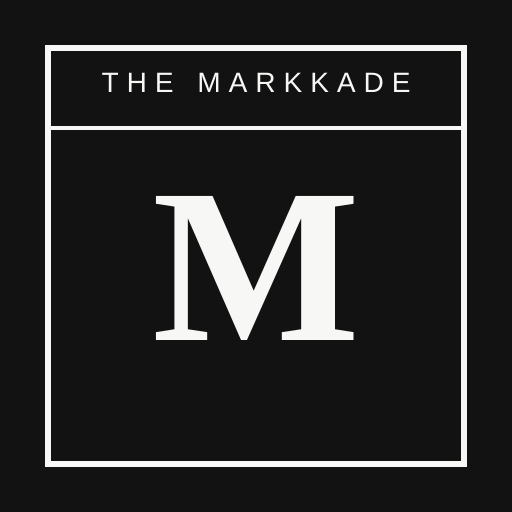
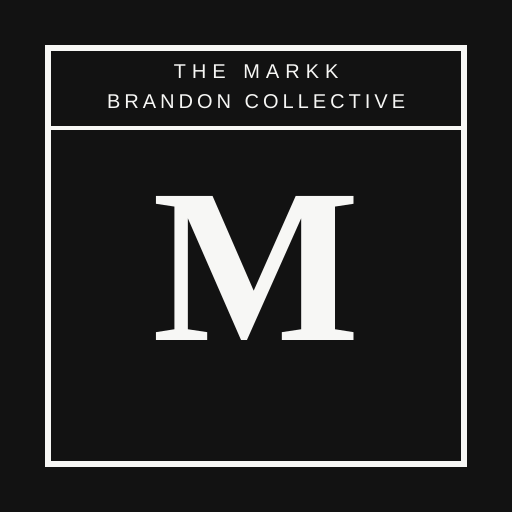
Rebrand site from The Markkade to The Markk Brandon Collective
Replace all user-facing branding, PWA manifest, service worker cache,
puzzle data, and app icons. Masthead uses a two-line title; PWA short
name is MBC for home-screen labels.

Changed region(s): [[0.1875, 0.125, 0.8125, 0.2188]]

diff --git a/news.html b/news.html
@@ -3,16 +3,16 @@
 <head>
 <meta charset="UTF-8">
 <meta name="viewport" content="width=device-width, initial-scale=1.0">
-<meta name="description" content="The Markkade Newsroom — launches, timelines, and development updates from Markk Brandon.">
+<meta name="description" content="The Markk Brandon Collective Newsroom — launches, timelines, and development updates from Markk Brandon.">
 <meta name="theme-color" content="#121212">
 <link rel="manifest" href="/manifest.webmanifest">
 <link rel="icon" href="/icons/favicon-32.png" sizes="32x32" type="image/png">
 <link rel="apple-touch-icon" href="/icons/apple-touch-icon.png">
 <meta name="apple-mobile-web-app-capable" content="yes">
 <meta name="apple-mobile-web-app-status-bar-style" content="black-translucent">
-<meta name="apple-mobile-web-app-title" content="The Markkade">
+<meta name="apple-mobile-web-app-title" content="MBC">
 <meta name="mobile-web-app-capable" content="yes">
-<title>Newsroom — The Markkade</title>
+<title>Newsroom — The Markk Brandon Collective</title>
 <link rel="stylesheet" href="css/style.css">
 </head>
 <body>
@@ -20,7 +20,7 @@
 
 <nav class="site-nav">
   <div class="site-nav-inner">
-    <a class="logo" href="index.html">The Markkade</a>
+    <a class="logo" href="index.html">The Markk Brandon Collective</a>
     <ul class="nav-links">
       <li><a href="index.html">Front Page</a></li>
       <li><a href="news.html" class="active">Newsroom</a></li>
@@ -49,7 +49,7 @@
 
 <section class="section">
   <div class="prose" style="max-width:720px;margin:0 auto 2.5rem">
-    <p class="drop-cap">The Markkade isn't just a portfolio — it's a living newspaper. Every website launch, business venture, software release, and experiment gets documented here as it happens. This is the behind-the-scenes story of everything I build.</p>
+    <p class="drop-cap">The Markk Brandon Collective isn't just a portfolio — it's a living newspaper. Every website launch, business venture, software release, and experiment gets documented here as it happens. This is the behind-the-scenes story of everything I build.</p>
   </div>
 </section>
 
@@ -60,10 +60,10 @@
   </div>
 
   <article class="news-article">
-    <p class="dateline">July 13, 2026 · The Markkade</p>
-    <h3>The Markkade Launches as Central Hub</h3>
+    <p class="dateline">July 13, 2026 · The Markk Brandon Collective</p>
+    <h3>The Markk Brandon Collective Launches as Central Hub</h3>
     <div class="prose">
-      <p>After building across security, social, community, and lifestyle platforms, The Markkade opens as the official newspaper for every project — a cover page, newsroom, and classifieds section for the full portfolio of work by Markeith Nicholas White.</p>
+      <p>After building across security, social, community, and lifestyle platforms, The Markk Brandon Collective opens as the official newspaper for every project — a cover page, newsroom, and classifieds section for the full portfolio of work by Markeith Nicholas White.</p>
     </div>
   </article>
 
@@ -95,7 +95,7 @@
     <p class="dateline">2024 · New Beginnings</p>
     <h3>Web Projects and Platform Experiments Begin</h3>
     <div class="prose">
-      <p>A new wave of web applications, security tools, and community platforms starts taking shape — laying the foundation for the multi-platform portfolio documented today in The Markkade.</p>
+      <p>A new wave of web applications, security tools, and community platforms starts taking shape — laying the foundation for the multi-platform portfolio documented today in The Markk Brandon Collective.</p>
     </div>
   </article>
 </section>
@@ -108,7 +108,7 @@
   <ul class="timeline">
     <li><div class="year">2024</div>Beginning new web projects and platform experiments.</li>
     <li><div class="year">2025</div>Expanding into multiple platforms — social apps, security operations, and AI-powered experiences.</li>
-    <li><div class="year">2026</div>Launching The Markkade as the central hub for every project.</li>
+    <li><div class="year">2026</div>Launching The Markk Brandon Collective as the central hub for every project.</li>
     <li><div class="year">Future</div>Whatever gets built next becomes tomorrow's headline.</li>
   </ul>
 </section>

diff --git a/index.html b/index.html
@@ -3,16 +3,16 @@
 <head>
 <meta charset="UTF-8">
 <meta name="viewport" content="width=device-width, initial-scale=1.0">
-<meta name="description" content="The Markkade — the official newspaper of Markeith Nicholas White. Everything Markk Brandon builds, documented.">
+<meta name="description" content="The Markk Brandon Collective — the official newspaper of Markeith Nicholas White. Everything Markk Brandon builds, documented.">
 <meta name="theme-color" content="#121212">
 <link rel="manifest" href="/manifest.webmanifest">
 <link rel="icon" href="/icons/favicon-32.png" sizes="32x32" type="image/png">
 <link rel="apple-touch-icon" href="/icons/apple-touch-icon.png">
 <meta name="apple-mobile-web-app-capable" content="yes">
 <meta name="apple-mobile-web-app-status-bar-style" content="black-translucent">
-<meta name="apple-mobile-web-app-title" content="The Markkade">
+<meta name="apple-mobile-web-app-title" content="MBC">
 <meta name="mobile-web-app-capable" content="yes">
-<title>The Markkade — Front Page</title>
+<title>The Markk Brandon Collective — Front Page</title>
 <link rel="stylesheet" href="css/style.css">
 </head>
 <body>
@@ -22,7 +22,7 @@
 
 <nav class="site-nav">
   <div class="site-nav-inner">
-    <a class="logo" href="index.html">The Markkade</a>
+    <a class="logo" href="index.html">The Markk Brandon Collective</a>
     <ul class="nav-links">
       <li><a href="index.html" class="active">Front Page</a></li>
       <li><a href="news.html">Newsroom</a></li>
@@ -40,7 +40,7 @@
     <span class="edition-center">Sacramento, Calif.</span>
     <span>Monday, July 13, 2026</span>
   </div>
-  <h1>The Markkade</h1>
+  <h1>The Markk Brandon<br>Collective</h1>
   <p class="masthead-tagline">All the projects fit to ship</p>
   <p class="masthead-rule"><strong>Markeith Nicholas White</strong> · Markk Brandon · StickzCoder.Lua</p>
   <div class="masthead-bottom-rule"></div>
@@ -57,7 +57,7 @@
     <p class="name">Markeith Nicholas White</p>
     <p class="aliases">Markk Brandon · StickzCoder.Lua</p>
     <div class="prose">
-      <p class="drop-cap">Welcome to The Markkade — my personal newspaper and the official archive of everything I build. From security marketplaces and social platforms to community apps and AI-powered experiences, this is where my work lives, launches, and gets documented like front-page news.</p>
+      <p class="drop-cap">Welcome to The Markk Brandon Collective — my personal newspaper and the official archive of everything I build. From security marketplaces and social platforms to community apps and AI-powered experiences, this is where my work lives, launches, and gets documented like front-page news.</p>
       <p>I build software that helps people. I create useful websites. I experiment with new technologies — React, Next.js, Supabase, Gemini AI, Lua, and whatever solves the problem in front of me. I never stop building, and every project that ships becomes tomorrow's headline.</p>
       <p>Based in Sacramento, California, I run businesses, ship apps, and document the journey right here. Browse <a href="apps/">The Classifieds</a> for every website and app I've built, explore <a href="servers/">Game Servers</a> for communities I've hosted, or visit the <a href="news.html">Newsroom</a> for launches and timelines.</p>
     </div>
@@ -128,9 +128,9 @@
 
       <article class="story-card">
         <p class="kicker">Newsroom</p>
-        <h3><a href="news.html">The Markkade Opens as Central Hub for Every Project</a></h3>
+        <h3><a href="news.html">The Markk Brandon Collective Opens as Central Hub for Every Project</a></h3>
         <p class="deck">2026 — A new chapter begins</p>
-        <p>After years of building across security, social, community, and lifestyle platforms, The Markkade launches as the official newspaper documenting every venture, release, and experiment.</p>
+        <p>After years of building across security, social, community, and lifestyle platforms, The Markk Brandon Collective launches as the official newspaper documenting every venture, release, and experiment.</p>
         <a class="read-more" href="news.html">Visit the Newsroom →</a>
       </article>
     </div>

diff --git a/features/wordsearch.html b/features/wordsearch.html
@@ -3,14 +3,14 @@
 <head>
 <meta charset="UTF-8">
 <meta name="viewport" content="width=device-width, initial-scale=1.0">
-<meta name="description" content="The Markkade word search — same clues as the crossword puzzle edition.">
+<meta name="description" content="The Markk Brandon Collective word search — same clues as the crossword puzzle edition.">
 <meta name="theme-color" content="#121212">
 <link rel="manifest" href="/manifest.webmanifest">
 <link rel="icon" href="/icons/favicon-32.png" sizes="32x32" type="image/png">
 <link rel="apple-touch-icon" href="/icons/apple-touch-icon.png">
 <meta name="apple-mobile-web-app-capable" content="yes">
 <meta name="apple-mobile-web-app-status-bar-style" content="black-translucent">
-<meta name="apple-mobile-web-app-title" content="The Markkade">
+<meta name="apple-mobile-web-app-title" content="MBC">
 <meta name="mobile-web-app-capable" content="yes">
 <title>Word Search — The Features Desk</title>
 <link rel="stylesheet" href="../css/style.css">
@@ -20,7 +20,7 @@
 
 <nav class="site-nav">
   <div class="site-nav-inner">
-    <a class="logo" href="../index.html">The Markkade</a>
+    <a class="logo" href="../index.html">The Markk Brandon Collective</a>
     <ul class="nav-links">
       <li><a href="../index.html">Front Page</a></li>
       <li><a href="../news.html">Newsroom</a></li>
@@ -37,7 +37,7 @@
 
 <div class="section-head">
   <p class="kicker">Puzzle Edition I</p>
-  <h2>The Markkade Word Search</h2>
+  <h2>Markk Brandon Collective Word Search</h2>
   <p>Find every word from the <a href="crossword.html">crossword</a> — tap the first and last letter of each answer.</p>
 </div>
 
@@ -57,7 +57,7 @@
 </div>
 
 <div class="cover-cta" style="margin-top:2rem">
-  <p>Includes favorites: <span class="features-accent">Green</span>, burger, tea, Mustang — plus Markkade extras.</p>
+  <p>Includes favorites: <span class="features-accent">Green</span>, burger, tea, Mustang — plus Collective extras.</p>
   <div class="btn-row">
     <a class="btn btn-primary" href="crossword.html">Crossword</a>
     <a class="btn" href="./">Features Desk</a>

diff --git a/features/crossword.html b/features/crossword.html
@@ -3,14 +3,14 @@
 <head>
 <meta charset="UTF-8">
 <meta name="viewport" content="width=device-width, initial-scale=1.0">
-<meta name="description" content="The Markkade crossword — favorite color, food, drink, car, and more.">
+<meta name="description" content="The Markk Brandon Collective crossword — favorite color, food, drink, car, and more.">
 <meta name="theme-color" content="#121212">
 <link rel="manifest" href="/manifest.webmanifest">
 <link rel="icon" href="/icons/favicon-32.png" sizes="32x32" type="image/png">
 <link rel="apple-touch-icon" href="/icons/apple-touch-icon.png">
 <meta name="apple-mobile-web-app-capable" content="yes">
 <meta name="apple-mobile-web-app-status-bar-style" content="black-translucent">
-<meta name="apple-mobile-web-app-title" content="The Markkade">
+<meta name="apple-mobile-web-app-title" content="MBC">
 <meta name="mobile-web-app-capable" content="yes">
 <title>Crossword — The Features Desk</title>
 <link rel="stylesheet" href="../css/style.css">
@@ -20,7 +20,7 @@
 
 <nav class="site-nav">
   <div class="site-nav-inner">
-    <a class="logo" href="../index.html">The Markkade</a>
+    <a class="logo" href="../index.html">The Markk Brandon Collective</a>
     <ul class="nav-links">
       <li><a href="../index.html">Front Page</a></li>
       <li><a href="../news.html">Newsroom</a></li>
@@ -37,7 +37,7 @@
 
 <div class="section-head">
   <p class="kicker">Puzzle Edition I</p>
-  <h2>The Markkade Crossword</h2>
+  <h2>Markk Brandon Collective Crossword</h2>
   <p>Same clues as the <a href="wordsearch.html">word search</a> — personal favorites edition.</p>
 </div>
 

diff --git a/features/photography.html b/features/photography.html
@@ -3,14 +3,14 @@
 <head>
 <meta charset="UTF-8">
 <meta name="viewport" content="width=device-width, initial-scale=1.0">
-<meta name="description" content="Photography gallery by Markk Brandon — The Features Desk at The Markkade.">
+<meta name="description" content="Photography gallery by Markk Brandon — The Features Desk at The Markk Brandon Collective.">
 <meta name="theme-color" content="#121212">
 <link rel="manifest" href="/manifest.webmanifest">
 <link rel="icon" href="/icons/favicon-32.png" sizes="32x32" type="image/png">
 <link rel="apple-touch-icon" href="/icons/apple-touch-icon.png">
 <meta name="apple-mobile-web-app-capable" content="yes">
 <meta name="apple-mobile-web-app-status-bar-style" content="black-translucent">
-<meta name="apple-mobile-web-app-title" content="The Markkade">
+<meta name="apple-mobile-web-app-title" content="MBC">
 <meta name="mobile-web-app-capable" content="yes">
 <title>Photography — The Features Desk</title>
 <link rel="stylesheet" href="../css/style.css">
@@ -20,7 +20,7 @@
 
 <nav class="site-nav">
   <div class="site-nav-inner">
-    <a class="logo" href="../index.html">The Markkade</a>
+    <a class="logo" href="../index.html">The Markk Brandon Collective</a>
     <ul class="nav-links">
       <li><a href="../index.html">Front Page</a></li>
       <li><a href="../news.html">Newsroom</a></li>

diff --git a/features/index.html b/features/index.html
@@ -10,9 +10,9 @@
 <link rel="apple-touch-icon" href="/icons/apple-touch-icon.png">
 <meta name="apple-mobile-web-app-capable" content="yes">
 <meta name="apple-mobile-web-app-status-bar-style" content="black-translucent">
-<meta name="apple-mobile-web-app-title" content="The Markkade">
+<meta name="apple-mobile-web-app-title" content="MBC">
 <meta name="mobile-web-app-capable" content="yes">
-<title>The Features Desk — The Markkade</title>
+<title>The Features Desk — The Markk Brandon Collective</title>
 <link rel="stylesheet" href="../css/style.css">
 </head>
 <body>
@@ -20,7 +20,7 @@
 
 <nav class="site-nav">
   <div class="site-nav-inner">
-    <a class="logo" href="../index.html">The Markkade</a>
+    <a class="logo" href="../index.html">The Markk Brandon Collective</a>
     <ul class="nav-links">
       <li><a href="../index.html">Front Page</a></li>
       <li><a href="../news.html">Newsroom</a></li>

diff --git a/apps/index.html b/apps/index.html
@@ -10,9 +10,9 @@
 <link rel="apple-touch-icon" href="/icons/apple-touch-icon.png">
 <meta name="apple-mobile-web-app-capable" content="yes">
 <meta name="apple-mobile-web-app-status-bar-style" content="black-translucent">
-<meta name="apple-mobile-web-app-title" content="The Markkade">
+<meta name="apple-mobile-web-app-title" content="MBC">
 <meta name="mobile-web-app-capable" content="yes">
-<title>The Classifieds — The Markkade</title>
+<title>The Classifieds — The Markk Brandon Collective</title>
 <link rel="stylesheet" href="../css/style.css">
 </head>
 <body>
@@ -20,7 +20,7 @@
 
 <nav class="site-nav">
   <div class="site-nav-inner">
-    <a class="logo" href="../index.html">The Markkade</a>
+    <a class="logo" href="../index.html">The Markk Brandon Collective</a>
     <ul class="nav-links">
       <li><a href="../index.html">Front Page</a></li>
       <li><a href="../news.html">Newsroom</a></li>

diff --git a/servers/index.html b/servers/index.html
@@ -10,9 +10,9 @@
 <link rel="apple-touch-icon" href="/icons/apple-touch-icon.png">
 <meta name="apple-mobile-web-app-capable" content="yes">
 <meta name="apple-mobile-web-app-status-bar-style" content="black-translucent">
-<meta name="apple-mobile-web-app-title" content="The Markkade">
+<meta name="apple-mobile-web-app-title" content="MBC">
 <meta name="mobile-web-app-capable" content="yes">
-<title>Game Servers — The Markkade</title>
+<title>Game Servers — The Markk Brandon Collective</title>
 <link rel="stylesheet" href="../css/style.css">
 </head>
 <body>
@@ -20,7 +20,7 @@
 
 <nav class="site-nav">
   <div class="site-nav-inner">
-    <a class="logo" href="../index.html">The Markkade</a>
+    <a class="logo" href="../index.html">The Markk Brandon Collective</a>
     <ul class="nav-links">
       <li><a href="../index.html">Front Page</a></li>
       <li><a href="../news.html">Newsroom</a></li>

diff --git a/apps/signature-security.html b/apps/signature-security.html
@@ -10,7 +10,7 @@
 <link rel="apple-touch-icon" href="/icons/apple-touch-icon.png">
 <meta name="apple-mobile-web-app-capable" content="yes">
 <meta name="apple-mobile-web-app-status-bar-style" content="black-translucent">
-<meta name="apple-mobile-web-app-title" content="The Markkade">
+<meta name="apple-mobile-web-app-title" content="MBC">
 <meta name="mobile-web-app-capable" content="yes">
 <title>Signature Security Specialist — The Classifieds</title>
 <link rel="stylesheet" href="../css/style.css">
@@ -19,7 +19,7 @@
 <div class="site">
 <nav class="site-nav">
   <div class="site-nav-inner">
-    <a class="logo" href="../index.html">The Markkade</a>
+    <a class="logo" href="../index.html">The Markk Brandon Collective</a>
     <ul class="nav-links">
       <li><a href="../index.html">Front Page</a></li>
       <li><a href="../news.html">Newsroom</a></li>

diff --git a/apps/sacramento-buy-nothing.html b/apps/sacramento-buy-nothing.html
@@ -10,7 +10,7 @@
 <link rel="apple-touch-icon" href="/icons/apple-touch-icon.png">
 <meta name="apple-mobile-web-app-capable" content="yes">
 <meta name="apple-mobile-web-app-status-bar-style" content="black-translucent">
-<meta name="apple-mobile-web-app-title" content="The Markkade">
+<meta name="apple-mobile-web-app-title" content="MBC">
 <meta name="mobile-web-app-capable" content="yes">
 <title>Sacramento Buy Nothing — The Classifieds</title>
 <link rel="stylesheet" href="../css/style.css">
@@ -19,7 +19,7 @@
 <div class="site">
 <nav class="site-nav">
   <div class="site-nav-inner">
-    <a class="logo" href="../index.html">The Markkade</a>
+    <a class="logo" href="../index.html">The Markk Brandon Collective</a>
     <ul class="nav-links">
       <li><a href="../index.html">Front Page</a></li>
       <li><a href="../news.html">Newsroom</a></li>

diff --git a/servers/co-op-metaverse.html b/servers/co-op-metaverse.html
@@ -10,7 +10,7 @@
 <link rel="apple-touch-icon" href="/icons/apple-touch-icon.png">
 <meta name="apple-mobile-web-app-capable" content="yes">
 <meta name="apple-mobile-web-app-status-bar-style" content="black-translucent">
-<meta name="apple-mobile-web-app-title" content="The Markkade">
+<meta name="apple-mobile-web-app-title" content="MBC">
 <meta name="mobile-web-app-capable" content="yes">
 <title>The Co-Op Metaverse — Game Servers</title>
 <link rel="stylesheet" href="../css/style.css">
@@ -19,7 +19,7 @@
 <div class="site">
 <nav class="site-nav">
   <div class="site-nav-inner">
-    <a class="logo" href="../index.html">The Markkade</a>
+    <a class="logo" href="../index.html">The Markk Brandon Collective</a>
     <ul class="nav-links">
       <li><a href="../index.html">Front Page</a></li>
       <li><a href="../news.html">Newsroom</a></li>

diff --git a/servers/racen-rollenspel.html b/servers/racen-rollenspel.html
@@ -10,7 +10,7 @@
 <link rel="apple-touch-icon" href="/icons/apple-touch-icon.png">
 <meta name="apple-mobile-web-app-capable" content="yes">
 <meta name="apple-mobile-web-app-status-bar-style" content="black-translucent">
-<meta name="apple-mobile-web-app-title" content="The Markkade">
+<meta name="apple-mobile-web-app-title" content="MBC">
 <meta name="mobile-web-app-capable" content="yes">
 <title>Racen Rollenspel — Game Servers</title>
 <link rel="stylesheet" href="../css/style.css">
@@ -19,7 +19,7 @@
 <div class="site">
 <nav class="site-nav">
   <div class="site-nav-inner">
-    <a class="logo" href="../index.html">The Markkade</a>
+    <a class="logo" href="../index.html">The Markk Brandon Collective</a>
     <ul class="nav-links">
       <li><a href="../index.html">Front Page</a></li>
       <li><a href="../news.html">Newsroom</a></li>
